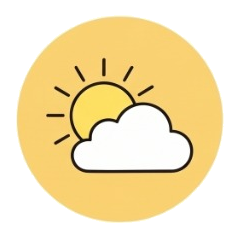
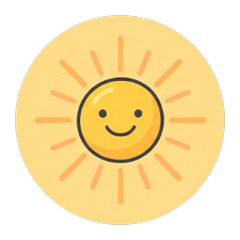
feat(weather): extract and integrate fog_mist_weather, rainbow_weather, and cloudless smiling outdoor_sun stickers

Changed region(s): [[0.0583, 0.0583, 0.9625, 0.9625]]

diff --git a/src/components/icons/JournalStickers.tsx b/src/components/icons/JournalStickers.tsx
@@ -234,6 +234,8 @@ export const CloudyWeatherSticker = renderStickerPng('/assets/stickers/cloudy_we
 export const SnowWeatherSticker = renderStickerPng('/assets/stickers/snow_weather.png', 'Snow & Flurries');
 export const ThunderstormWeatherSticker = renderStickerPng('/assets/stickers/thunderstorm_weather.png', 'Thunderstorm');
 export const WindyWeatherSticker = renderStickerPng('/assets/stickers/windy_weather.png', 'Windy Breeze');
+export const FogMistWeatherSticker = renderStickerPng('/assets/stickers/fog_mist_weather.png', 'Fog & Mist Weather');
+export const RainbowWeatherSticker = renderStickerPng('/assets/stickers/rainbow_weather.png', 'Rainbow Weather');
 export const HomeHouseSticker = renderStickerPng('/assets/stickers/home_house.png', 'Home House');
 export const TaskDoneSticker = renderStickerPng('/assets/stickers/task_done.png', 'Task Done Checkmark');
 export const TherapyBrainSticker = renderStickerPng('/assets/stickers/therapy_brain.png', 'Therapy & Sensory Brain');
@@ -318,8 +320,9 @@ export const RoutineStickerIcon: React.FC<{
   if (normEmoji === '🪄' || normTitle.includes('wand') || normTitle.includes('magic')) return <MagicWandSticker className={className} size={size} />;
   // 🚂 Golden Locomotive / Steam Train
   if (normEmoji === '🚂' || normTitle.includes('train') || normTitle.includes('locomotive')) return <GoldenTrainSticker className={className} size={size} />;
-  // 🌈 Rainbow Heart / Feelings Explorer
-  if (normEmoji === '🌈' || normTitle.includes('rainbow heart') || (normTitle.includes('rainbow') && normTitle.includes('heart'))) return <RainbowHeartSticker className={className} size={size} />;
+  // 🌈 Rainbow Heart / Feelings Explorer vs Weather Rainbow
+  if (normTitle.includes('rainbow heart') || (normTitle.includes('rainbow') && normTitle.includes('heart')) || normTitle.includes('feelings explorer')) return <RainbowHeartSticker className={className} size={size} />;
+  if (normEmoji === '🌈' || normTitle.includes('rainbow')) return <RainbowWeatherSticker className={className} size={size} />;
   // 🌅 Morning Sun / Sunrise / Morning Superstar
   if (normEmoji === '🌅' || normTitle.includes('morning sun') || normTitle.includes('sunrise') || normTitle.includes('morning superstar')) return <MorningSunriseSticker className={className} size={size} />;
 
@@ -434,8 +437,10 @@ export const RoutineStickerIcon: React.FC<{
   if (normEmoji === '🩺' || normTitle.includes('doctor') || normTitle.includes('stethoscope') || normTitle.includes('check-up')) return <StethoscopeSticker className={className} size={size} />;
   // ⛅ Partly Cloudy
   if (normEmoji === '⛅' || normEmoji === '🌤' || normEmoji === '🌤' || normTitle.includes('partly cloudy')) return <PartlyCloudySticker className={className} size={size} />;
-  // ☁ Cloudy / Overcast / Fog
-  if (normEmoji === '☁' || normEmoji === '☁' || normEmoji === '🌫' || normEmoji === '🌫' || normTitle.includes('cloudy') || normTitle.includes('overcast') || normTitle.includes('fog')) return <CloudyWeatherSticker className={className} size={size} />;
+  // 🌫 Fog & Mist
+  if (normEmoji === '🌫' || normEmoji === '🌫' || normTitle.includes('fog') || normTitle.includes('mist')) return <FogMistWeatherSticker className={className} size={size} />;
+  // ☁ Cloudy / Overcast
+  if (normEmoji === '☁' || normEmoji === '☁' || normTitle.includes('cloudy') || normTitle.includes('overcast')) return <CloudyWeatherSticker className={className} size={size} />;
   // ❄ Snow / Flurries
   if (normEmoji === '❄' || normEmoji === '❄' || normEmoji === '🌨' || normEmoji === '🌨' || normTitle.includes('snow') || normTitle.includes('flurr')) return <SnowWeatherSticker className={className} size={size} />;
   // 🌩 Thunderstorm / Lightning

diff --git a/src/components/common/IconLibraryModal.tsx b/src/components/common/IconLibraryModal.tsx
@@ -78,6 +78,8 @@ export const ICON_LIBRARY: LibraryIconItem[] = [
   { id: 'snow', emoji: '❄', label: 'Snow & Flurries', category: 'daily', keywords: ['snow', 'flurry', 'winter', 'cold', 'weather'] },
   { id: 'thunderstorm', emoji: '🌩', label: 'Thunderstorm', category: 'daily', keywords: ['thunder', 'storm', 'lightning', 'rain', 'weather'] },
   { id: 'windy', emoji: '💨', label: 'Windy Weather', category: 'daily', keywords: ['wind', 'windy', 'breeze', 'weather', 'air'] },
+  { id: 'fog_mist', emoji: '🌫', label: 'Fog & Mist', category: 'daily', keywords: ['fog', 'mist', 'haze', 'quiet', 'weather'] },
+  { id: 'rainbow_weather', emoji: '🌈', label: 'Rainbow Sky', category: 'daily', keywords: ['rainbow', 'sky', 'calm', 'weather', 'sun'] },
   { id: 'folder', emoji: '📁', label: 'Folder / Binder', category: 'daily', keywords: ['folder', 'binder', 'homework', 'papers'] },
   { id: 'writing', emoji: '✏', label: 'Writing Class', category: 'daily', keywords: ['pencil', 'write', 'draw', 'homework', 'math'] },
   { id: 'meds', emoji: '💊', label: 'Medication', category: 'daily', keywords: ['medicine', 'medication', 'pill', 'vitamin', 'health'] },

diff --git a/src/utils/weather.ts b/src/utils/weather.ts
@@ -65,7 +65,7 @@ function parseWmoCode(code: number, windMph: number = 0): { condition: string; e
   }
   // Fog
   if (code === 45 || code === 48) {
-    return { condition: 'Foggy & Gentle Quiet', emoji: '🌫', bgGradient: 'from-slate-100 via-teal-50 to-sky-50', stickerSrc: '/assets/stickers/cloudy_weather.png' };
+    return { condition: 'Foggy & Gentle Quiet', emoji: '🌫', bgGradient: 'from-slate-100 via-teal-50 to-sky-50', stickerSrc: '/assets/stickers/fog_mist_weather.png' };
   }
   // High winds with clear/overcast sky
   if (windMph >= 18 && code <= 3) {
